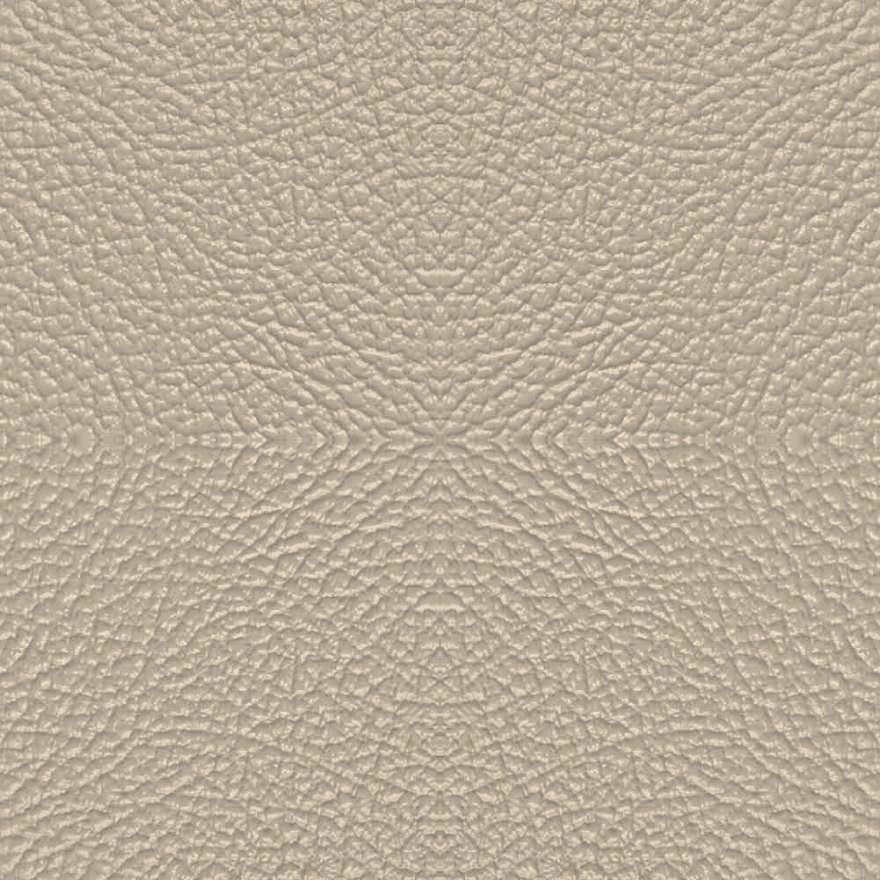
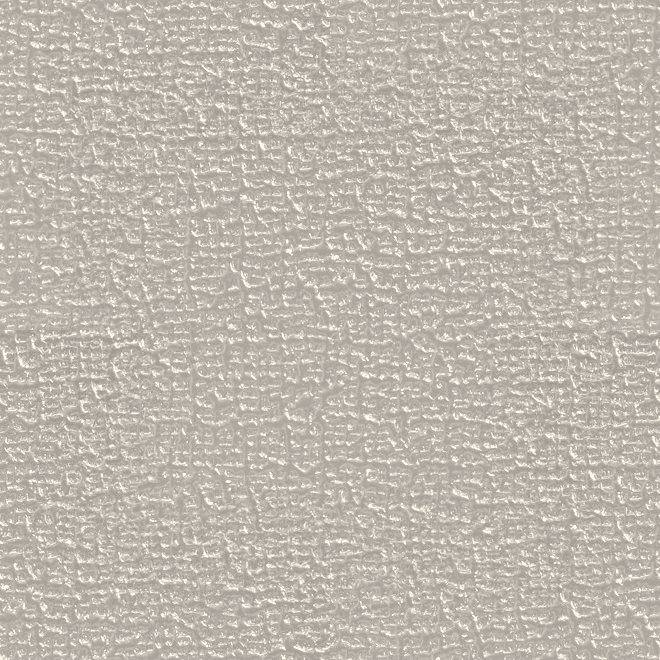
StreamDAW demo: seamless tolex, lighter meters

diff --git a/apps/streamdaw-demo.html b/apps/streamdaw-demo.html
@@ -35,8 +35,10 @@
   --meter: #16140f; --shadow: 0 1px 0 rgba(22,20,15,.08);
   --vu-hi: #fdfbf4; --vu-lo: #e8e1cf; --vu-ink: 22, 20, 15; --vu-edge: 255, 255, 255;   /* the meters: a light face */
   --vu-g: #1d9a4a; --vu-y: #d29a00; --vu-r: #e02f3a; --vu-off: .16; --vu-glow: 2;
-  --amp: #c7b9a6 url(demo/leather-light.jpg) center / 440px auto repeat;   /* the leather (Ori's tolex): the phone's play card */
-  --amp-wall: linear-gradient(rgba(239,233,218,.5), rgba(239,233,218,.5)), #cfc3b0 url(demo/leather-light.jpg) 0 0 / 440px auto repeat;  /* the app's middle */
+  /* The leather: Ori's amp tolex, one seamless tile (site/snowstar/demo/leather-make.py), with a
+     soft light from the top left. --amp: the phone's play card; --amp-wall: the app's middle. */
+  --amp: linear-gradient(155deg, rgba(255,255,255,.28) 0%, rgba(255,255,255,.06) 32%, rgba(0,0,0,0) 58%, rgba(0,0,0,.08) 100%), #bdb4ab url(demo/leather-light.jpg) 0 0 / 330px auto repeat;
+  --amp-wall: linear-gradient(rgba(239,233,218,.35), rgba(239,233,218,.35)), #c4bbb1 url(demo/leather-light.jpg) 0 0 / 330px auto repeat;
   --amp-ink: #16140f; --amp-sub: rgba(22,20,15,.7); --amp-edge: #6f6556; --amp-text: 0 1px 0 rgba(255,255,255,.45);
   --amp-glow: inset 0 1px 0 rgba(255,255,255,.35), inset 0 0 0 3px rgba(0,0,0,.08), 0 10px 24px -16px rgba(40,30,10,.55);
   --pop-shadow: 0 10px 30px -10px rgba(0,0,0,.35);
@@ -55,8 +57,8 @@ html[data-theme="dark"] {
   --meter: #f3eddc; --shadow: none;
   --vu-hi: #1d1c18; --vu-lo: #0c0b09; --vu-ink: 232, 226, 207; --vu-edge: 255, 255, 255;  /* the meters: dark hardware */
   --vu-g: #44d36e; --vu-y: #f4c430; --vu-r: #ff4b4b; --vu-off: .11; --vu-glow: 6;
-  --amp: #24221f url(demo/leather-dark.jpg) center / 300px auto repeat;
-  --amp-wall: linear-gradient(rgba(18,17,14,.42), rgba(18,17,14,.42)), #1c1b19 url(demo/leather-dark.jpg) 0 0 / 300px auto repeat;
+  --amp: linear-gradient(155deg, rgba(255,255,255,.10) 0%, rgba(255,255,255,.025) 30%, rgba(0,0,0,0) 55%, rgba(0,0,0,.22) 100%), #141312 url(demo/leather-dark.jpg) 0 0 / 330px auto repeat;
+  --amp-wall: linear-gradient(rgba(18,17,14,.32), rgba(18,17,14,.32)), #141312 url(demo/leather-dark.jpg) 0 0 / 330px auto repeat;
   --amp-ink: #f3eddc; --amp-sub: rgba(243,237,220,.7); --amp-edge: #000; --amp-text: 0 1px 2px rgba(0,0,0,.55);
   --amp-glow: inset 0 1px 0 rgba(255,255,255,.08), inset 0 0 0 3px rgba(0,0,0,.25), 0 10px 24px -14px rgba(0,0,0,.6);
   --pop-shadow: 0 10px 30px -10px rgba(0,0,0,.55);
@@ -72,8 +74,8 @@ html[data-theme="dark"] {
     --meter: #f3eddc; --shadow: none;
     --vu-hi: #1d1c18; --vu-lo: #0c0b09; --vu-ink: 232, 226, 207; --vu-edge: 255, 255, 255;  /* the meters: dark hardware */
     --vu-g: #44d36e; --vu-y: #f4c430; --vu-r: #ff4b4b; --vu-off: .11; --vu-glow: 6;
-    --amp: #24221f url(demo/leather-dark.jpg) center / 300px auto repeat;
-    --amp-wall: linear-gradient(rgba(18,17,14,.42), rgba(18,17,14,.42)), #1c1b19 url(demo/leather-dark.jpg) 0 0 / 300px auto repeat;
+    --amp: linear-gradient(155deg, rgba(255,255,255,.10) 0%, rgba(255,255,255,.025) 30%, rgba(0,0,0,0) 55%, rgba(0,0,0,.22) 100%), #141312 url(demo/leather-dark.jpg) 0 0 / 330px auto repeat;
+    --amp-wall: linear-gradient(rgba(18,17,14,.32), rgba(18,17,14,.32)), #141312 url(demo/leather-dark.jpg) 0 0 / 330px auto repeat;
     --amp-ink: #f3eddc; --amp-sub: rgba(243,237,220,.7); --amp-edge: #000; --amp-text: 0 1px 2px rgba(0,0,0,.55);
     --amp-glow: inset 0 1px 0 rgba(255,255,255,.08), inset 0 0 0 3px rgba(0,0,0,.25), 0 10px 24px -14px rgba(0,0,0,.6);
     --pop-shadow: 0 10px 30px -10px rgba(0,0,0,.55);
@@ -535,6 +537,159 @@ html[data-theme="dark"] .theme-btn::before { content: "\2600"; }  /* a sun: swit
       <a href="streamdaw.html" target="_top">StreamDAW</a> · free on your master bus.</p>
   </div>
 </div>
+<script>// Two analog VU meters on one canvas: the listener page, the control page, the site's demo.
+//
+// Backlit faces, a real VU scale (linear in voltage: -20 sits near the stop, 0 VU two thirds
+// across), needles on a damped spring that rise fast and fall slowly, and a peak lamp at
+// -1 dBFS. 0 VU = -4 dBFS of peak, so a mastered mix swings around the red.
+//
+// Light on the page (2026-10-08, after a dropout that came with a video starting): everything
+// that does not move (bezels, faces, scales, glass, lamps) is drawn once per size and theme
+// into layers; a frame is two images, two needles and two lamps, at most 30 a second, only
+// while a needle moves, and never while the page is hidden.
+//
+//   const m = SdawVU.create(canvas);  m.feed(peakL, peakR);  m.pose(l, r, peak);  m.redraw();
+(function () {
+  'use strict';
+  const REF = -4;
+  const toDb = (v) => (v > 0 ? 20 * Math.log10(v) : -120);
+  const needleAt = (db) => Math.min(1.06, Math.pow(10, (db - REF) / 20) / Math.pow(10, 3 / 20));   // 0..1 = rest..+3 VU
+  const isDark = () => {
+    const t = document.documentElement.getAttribute('data-theme');
+    return t ? t === 'dark' : !!(window.matchMedia && matchMedia('(prefers-color-scheme: dark)').matches);
+  };
+  const PAL = {
+    dark:  { f0: '#f7e2a6', f1: '#d9b866', glow: 'rgba(255,214,120,.55)', ink: '#2b2416', bez0: '#3a3833', bez1: '#0e0d0b' },
+    light: { f0: '#fbf5e4', f1: '#e7dcbd', glow: 'rgba(255,246,214,.6)', ink: '#2b2416', bez0: '#4a4741', bez1: '#15140f' },
+  };
+  const all = new Set();
+
+  // The geometry of one meter, shared by the layers and the needle.
+  function geo(x0, w, h) {
+    const fx = x0 + 6, fy = 7, fw = w - 12, fh = h - 16;
+    const cx = fx + fw / 2, cy = fy + fh * 1.45, R = Math.min(fh * 1.25, fw * 0.55), A = 42 * Math.PI / 180;
+    return { x0, w, h, fx, fy, fw, fh, cx, cy, R, A, ang: (p) => -A + 2 * A * Math.max(0, Math.min(1, p)) - Math.PI / 2 };
+  }
+  function rr(g, x, y, w, h, r) { g.beginPath(); g.moveTo(x + r, y); g.arcTo(x + w, y, x + w, y + h, r); g.arcTo(x + w, y + h, x, y + h, r); g.arcTo(x, y + h, x, y, r); g.arcTo(x, y, x + w, y, r); g.closePath(); }
+
+  function paintBack(g, m, side, pal) {
+    const { x0, w, h, fx, fy, fw, fh, cx, cy, R, ang } = m;
+    g.save(); g.shadowColor = 'rgba(0,0,0,.55)'; g.shadowBlur = 8; g.shadowOffsetY = 3;
+    const bz = g.createLinearGradient(0, 0, 0, h); bz.addColorStop(0, pal.bez0); bz.addColorStop(1, pal.bez1);
+    rr(g, x0, 1, w, h - 4, 9); g.fillStyle = bz; g.fill(); g.restore();
+    g.strokeStyle = 'rgba(255,255,255,.14)'; g.lineWidth = 1; rr(g, x0 + 0.5, 1.5, w - 1, h - 5, 8.5); g.stroke();
+    g.save(); rr(g, fx, fy, fw, fh, 5); g.clip();
+    const face = g.createLinearGradient(0, fy, 0, fy + fh); face.addColorStop(0, pal.f0); face.addColorStop(1, pal.f1);
+    g.fillStyle = face; g.fillRect(fx, fy, fw, fh);
+    const glow = g.createRadialGradient(fx + fw / 2, fy + fh * 0.9, 4, fx + fw / 2, fy + fh * 0.9, fw * 0.7); glow.addColorStop(0, pal.glow); glow.addColorStop(1, 'rgba(255,255,255,0)');
+    g.fillStyle = glow; g.fillRect(fx, fy, fw, fh);
+    const vig = g.createRadialGradient(fx + fw / 2, fy + fh / 2, fh * 0.2, fx + fw / 2, fy + fh / 2, fw * 0.75); vig.addColorStop(0, 'rgba(0,0,0,0)'); vig.addColorStop(1, 'rgba(60,40,10,.28)');
+    g.fillStyle = vig; g.fillRect(fx, fy, fw, fh);
+    const at = (vuDb) => needleAt(vuDb + REF);
+    g.lineWidth = 1.2; g.strokeStyle = pal.ink;
+    g.beginPath(); g.arc(cx, cy, R, ang(at(-20)), ang(at(0))); g.stroke();
+    g.strokeStyle = '#c4271f'; g.lineWidth = 3.2; g.beginPath(); g.arc(cx, cy, R + 1.5, ang(at(0)), ang(1)); g.stroke();
+    g.font = '600 ' + Math.max(7, Math.round(fh * 0.13)) + 'px ui-sans-serif, -apple-system, Helvetica, Arial'; g.textAlign = 'center'; g.textBaseline = 'middle';
+    for (const [d, lab] of [[-20, '20'], [-10, '10'], [-7, ''], [-5, '5'], [-3, '3'], [-2, ''], [-1, ''], [0, '0'], [1, ''], [2, ''], [3, '+3']]) {
+      const t = ang(at(d)), big = lab !== '', c = Math.cos(t), sn = Math.sin(t);
+      g.strokeStyle = d > 0 ? '#c4271f' : pal.ink; g.lineWidth = big ? 1.3 : 1;
+      g.beginPath(); g.moveTo(cx + c * R, cy + sn * R); g.lineTo(cx + c * (R + (big ? 6 : 4)), cy + sn * (R + (big ? 6 : 4))); g.stroke();
+      if (big && fw > 100) { g.fillStyle = d > 0 ? '#c4271f' : pal.ink; g.fillText(lab, cx + c * (R + 13), cy + sn * (R + 13)); }
+    }
+    g.fillStyle = pal.ink; g.font = 'italic 700 ' + Math.max(9, Math.round(fh * 0.2)) + 'px Georgia, "Times New Roman", serif';
+    g.fillText('VU', cx, fy + fh * 0.8);
+    g.font = '600 ' + Math.max(7, Math.round(fh * 0.12)) + 'px ui-sans-serif, -apple-system, Helvetica, Arial'; g.textAlign = 'left';
+    g.fillText(side, fx + 7, fy + 10);
+    g.restore();
+  }
+  function paintFront(g, m) {   // over the needle: the pivot's cover and the glass
+    const { fx, fy, fw, fh } = m;
+    g.save(); rr(g, fx, fy, fw, fh, 5); g.clip();
+    const cover = g.createLinearGradient(0, fy + fh - 12, 0, fy + fh); cover.addColorStop(0, 'rgba(20,18,14,0)'); cover.addColorStop(1, 'rgba(20,18,14,.35)');
+    g.fillStyle = cover; g.fillRect(fx, fy + fh - 12, fw, 12);
+    const gl = g.createLinearGradient(0, fy, 0, fy + fh * 0.55); gl.addColorStop(0, 'rgba(255,255,255,.42)'); gl.addColorStop(1, 'rgba(255,255,255,0)');
+    g.fillStyle = gl; g.beginPath(); g.moveTo(fx, fy); g.lineTo(fx + fw, fy); g.lineTo(fx + fw, fy + fh * 0.32); g.quadraticCurveTo(fx + fw / 2, fy + fh * 0.5, fx, fy + fh * 0.32); g.closePath(); g.fill();
+    g.restore();
+  }
+  function lamp(on, dpr) {
+    const c = document.createElement('canvas'), s = Math.ceil(18 * dpr); c.width = c.height = s;
+    const g = c.getContext('2d'); g.setTransform(dpr, 0, 0, dpr, 0, 0);
+    if (on) { const halo = g.createRadialGradient(9, 9, 1, 9, 9, 9); halo.addColorStop(0, 'rgba(255,59,47,.6)'); halo.addColorStop(1, 'rgba(255,59,47,0)'); g.fillStyle = halo; g.fillRect(0, 0, 18, 18); }
+    const l = g.createRadialGradient(8, 8, 0.5, 9, 9, 4); l.addColorStop(0, on ? '#ffd1c7' : '#7a2a24'); l.addColorStop(1, on ? '#ff3b2f' : '#2b0f0d');
+    g.fillStyle = l; g.beginPath(); g.arc(9, 9, 3.2, 0, 2 * Math.PI); g.fill();
+    return c;
+  }
+
+  function create(cv) {
+    const s = { tl: 0, tr: 0, xl: 0, xr: 0, vl: 0, vr: 0, pkl: -1e9, pkr: -1e9, at: 0, last: 0, drawn: 0, running: false, L: null, key: '' };
+    function layers() {
+      const dpr = Math.min(3, window.devicePixelRatio || 1), W = cv.clientWidth, H = cv.clientHeight;
+      if (!W || !H) return null;
+      const dark = isDark(), key = [W, H, dpr, dark].join();
+      if (s.L && s.key === key) return s.L;
+      if (cv.width !== Math.round(W * dpr) || cv.height !== Math.round(H * dpr)) { cv.width = Math.round(W * dpr); cv.height = Math.round(H * dpr); }
+      const pal = dark ? PAL.dark : PAL.light, gap = 10, mw = (W - gap) / 2;
+      const ms = [geo(0, mw, H), geo(mw + gap, mw, H)];
+      const mk = () => { const c = document.createElement('canvas'); c.width = cv.width; c.height = cv.height; const g = c.getContext('2d'); g.setTransform(dpr, 0, 0, dpr, 0, 0); return [c, g]; };
+      const [bg, gb] = mk(), [fg, gf] = mk();
+      paintBack(gb, ms[0], 'L', pal); paintBack(gb, ms[1], 'R', pal);
+      paintFront(gf, ms[0]); paintFront(gf, ms[1]);
+      s.L = { bg, fg, ms, dpr, W, H, on: lamp(true, dpr), off: lamp(false, dpr) }; s.key = key;
+      return s.L;
+    }
+    function draw() {
+      const L = layers(); if (!L) return;
+      const g = cv.getContext('2d'), now = performance.now();
+      g.setTransform(1, 0, 0, 1, 0, 0); g.clearRect(0, 0, cv.width, cv.height); g.drawImage(L.bg, 0, 0);
+      g.setTransform(L.dpr, 0, 0, L.dpr, 0, 0); g.lineCap = 'round';
+      [[L.ms[0], s.xl, now - s.pkl < 500], [L.ms[1], s.xr, now - s.pkr < 500]].forEach(([m, x, pk]) => {
+        const t = m.ang(x), c = Math.cos(t), sn = Math.sin(t), r0 = m.R * 0.42, r1 = m.R + 7;
+        g.save(); g.beginPath(); g.rect(m.fx, m.fy, m.fw, m.fh); g.clip();
+        g.strokeStyle = 'rgba(40,25,5,.25)'; g.lineWidth = 2; g.beginPath(); g.moveTo(m.cx + c * r0 + 2, m.cy + sn * r0 + 2); g.lineTo(m.cx + c * r1 + 2, m.cy + sn * r1 + 2); g.stroke();
+        g.strokeStyle = '#141210'; g.lineWidth = 1.4; g.beginPath(); g.moveTo(m.cx + c * r0, m.cy + sn * r0); g.lineTo(m.cx + c * r1, m.cy + sn * r1); g.stroke();
+        g.restore();
+        g.drawImage(pk ? L.on : L.off, m.fx + m.fw - 18, m.fy + 1, 18, 18);
+      });
+      g.setTransform(1, 0, 0, 1, 0, 0); g.drawImage(L.fg, 0, 0);
+    }
+    function step(now) {
+      if (document.hidden) { s.running = false; return; }
+      if (now - s.drawn < 32) { requestAnimationFrame(step); return; }   // at most 30 frames a second
+      const dt = Math.min(0.05, (now - (s.last || now)) / 1000); s.last = now; s.drawn = now;
+      const fresh = now - s.at < 400;
+      const tl = fresh ? needleAt(toDb(s.tl)) : 0, tr = fresh ? needleAt(toDb(s.tr)) : 0;
+      s.tl *= 0.6; s.tr *= 0.6;
+      for (const [t, x, v] of [[tl, 'xl', 'vl'], [tr, 'xr', 'vr']]) {
+        // a damped spring: quick up (about 5 Hz), slow down (about 1.6 Hz), as a VU's needle
+        const w = 2 * Math.PI * (t > s[x] ? 5 : 1.6), K = w * w, C = 1.8 * w;
+        for (let i = 0; i < 2; i++) { const hh = dt / 2; s[v] += (K * (t - s[x]) - C * s[v]) * hh; s[x] = Math.max(-0.02, Math.min(1.08, s[x] + s[v] * hh)); }
+      }
+      draw();
+      const moving = Math.abs(s.vl) + Math.abs(s.vr) > 0.002 || s.xl > 0.002 || s.xr > 0.002;
+      if (moving || fresh || now - Math.max(s.pkl, s.pkr) < 600) requestAnimationFrame(step);
+      else { s.running = false; s.xl = s.xr = s.vl = s.vr = 0; draw(); }
+    }
+    const api = {
+      feed(l, r) {
+        l = +l || 0; r = +r || 0;
+        s.tl = Math.max(s.tl, l); s.tr = Math.max(s.tr, r); s.at = performance.now();
+        if (l > 0.89) s.pkl = s.at; if (r > 0.89) s.pkr = s.at;
+        if (!s.running && !document.hidden) { s.running = true; s.last = performance.now(); requestAnimationFrame(step); }
+      },
+      pose(l, r, peak) { s.xl = +l || 0; s.xr = +r || 0; s.vl = s.vr = 0; if (peak) s.pkl = s.pkr = performance.now(); draw(); },
+      redraw() { s.key = ''; draw(); },
+    };
+    all.add(api);
+    requestAnimationFrame(() => draw());
+    return api;
+  }
+  const again = () => { for (const m of all) m.redraw(); };
+  window.addEventListener('sdawtheme', again);
+  window.addEventListener('resize', again);
+  if (window.matchMedia) { const mq = matchMedia('(prefers-color-scheme: dark)'); if (mq.addEventListener) mq.addEventListener('change', again); }
+  window.SdawVU = { create, toDb, needleAt };
+})();
+</script>
 <script>
 (function () {
   'use strict';
@@ -828,118 +983,23 @@ html[data-theme="dark"] .theme-btn::before { content: "\2600"; }  /* a sun: swit
     requestAnimationFrame(vuLoop);
   }
   // ---------- the meter band ----------
-  // Two analog VU meters (2026-10-08, Ori: "depth and realism, as if it is an analog
-  // machine"): backlit faces, a real VU scale (linear in voltage, so -20 sits near the stop and
-  // 0 VU two thirds across), needles with VU ballistics (a damped spring: about 300 ms to the
-  // mark, a hair of overshoot) and a peak light. Fed with the peaks of what this page plays
-  // (vuFeed); drawn only while a needle moves (landmine 22: the page must stay light).
-  const vu = { tl: 0, tr: 0, xl: 0, xr: 0, vl: 0, vr: 0, pkl: -1e9, pkr: -1e9, last: 0, at: 0, running: false, key: '' };
-  let listenSince = 0;
+  // Two analog VU meters (vu-analog.js: shared with the control page and the site's demo),
+  // fed with the level of what this page is PLAYING: the audio engine reports it with its
+  // stats, about nine times a second. The level of what ARRIVES ran half a second early in
+  // sync mode (2026-10-08: "the meters are not in time with what is playing").
+  const meterVU = window.SdawVU && $('vuCanvas') ? SdawVU.create($('vuCanvas')) : null;
+  let listenSince = 0, vuFromEngine = 0;
   const VU_MIN = -42, toDb = (v) => (v > 0 ? 20 * Math.log10(v) : -120);
-  function dbPos(db) {           // the old segment scale: still what the track meters use
+  function dbPos(db) {           // the track meters' scale
     if (db <= VU_MIN) return 0; if (db >= 0) return 1;
     if (db < -20) return (db - VU_MIN) / (-20 - VU_MIN) * 0.30;
     if (db < -10) return 0.30 + (db + 20) / 10 * 0.25;
     return 0.55 + (db + 10) / 10 * 0.45;
   }
-  const VU_REF = -4;             // 0 VU = -4 dBFS of peak: a mastered mix swings around the red
-  const vuNeedle = (db) => Math.min(1.06, Math.pow(10, (db - VU_REF) / 20) / Math.pow(10, 3 / 20));   // 0..1 = rest..+3 VU
-  function vuFeed(l, r) {
-    vu.tl = Math.max(vu.tl, +l || 0); vu.tr = Math.max(vu.tr, +r || 0); vu.at = performance.now();
-    if ((+l || 0) > 0.89) vu.pkl = vu.at; if ((+r || 0) > 0.89) vu.pkr = vu.at;     // -1 dBFS lights the peak lamp
-    if (!vu.running && !document.hidden) { vu.running = true; vu.last = performance.now(); requestAnimationFrame(vuStep); }
-    if (wantPlay && !listenSince) listenSince = Date.now(); else if (!wantPlay) listenSince = 0;
-  }
-  function vuStep(now) {
-    const dt = Math.min(0.05, (now - vu.last) / 1000); vu.last = now;
-    const fresh = now - vu.at < 400;
-    const tl = fresh ? vuNeedle(toDb(vu.tl)) : 0, tr = fresh ? vuNeedle(toDb(vu.tr)) : 0;
-    vu.tl *= 0.6; vu.tr *= 0.6;
-    // the needle: x'' = k(target - x) - c x'  (about 2 Hz, damped a little under critical)
-    const K = 175, C = 21;
-    for (const [t, x, v] of [[tl, 'xl', 'vl'], [tr, 'xr', 'vr']]) {
-      for (let i = 0; i < 2; i++) { const h = dt / 2; vu[v] += (K * (t - vu[x]) - C * vu[v]) * h; vu[x] = Math.max(-0.02, Math.min(1.08, vu[x] + vu[v] * h)); }
-    }
-    drawVu();
-    const moving = Math.abs(vu.vl) + Math.abs(vu.vr) > 0.002 || vu.xl > 0.002 || vu.xr > 0.002;
-    if (!document.hidden && (moving || fresh || now - Math.max(vu.pkl, vu.pkr) < 600)) requestAnimationFrame(vuStep);
-    else { vu.running = false; vu.xl = vu.xr = vu.vl = vu.vr = 0; drawVu(); }
-  }
-  function drawVu() {
-    const cv = $('vuCanvas'); if (!cv) return;
-    const dpr = Math.min(3, window.devicePixelRatio || 1), W = cv.clientWidth, H = cv.clientHeight; if (!W || !H) return;
-    if (cv.width !== Math.round(W * dpr) || cv.height !== Math.round(H * dpr)) { cv.width = Math.round(W * dpr); cv.height = Math.round(H * dpr); vu.key = ''; }
-    const now = performance.now(), pal = vuPalette();
-    const key = [W, H, vu.xl.toFixed(3), vu.xr.toFixed(3), now - vu.pkl < 500, now - vu.pkr < 500, pal.k].join();
-    if (key === vu.key) return; vu.key = key;
-    const g = cv.getContext('2d'); g.setTransform(dpr, 0, 0, dpr, 0, 0); g.clearRect(0, 0, W, H);
-    const gap = 10, mw = (W - gap) / 2;
-    vuMeter(g, 0, mw, H, vu.xl, now - vu.pkl < 500, 'L', pal);
-    vuMeter(g, mw + gap, mw, H, vu.xr, now - vu.pkr < 500, 'R', pal);
-  }
-  // The meters' face and bezel follow the theme a little (an ivory face in the bright theme, a
-  // warm backlit one in the dark); the needle, the scale and the red are the same in both.
-  function vuPalette() {
-    const dark = (document.documentElement.getAttribute('data-theme') || (matchMedia && matchMedia('(prefers-color-scheme: dark)').matches ? 'dark' : 'light')) === 'dark';
-    return dark ? { k: 'd', f0: '#f7e2a6', f1: '#d9b866', glow: 'rgba(255,214,120,.55)', ink: '#2b2416', bez0: '#3a3833', bez1: '#0e0d0b' }
-                : { k: 'l', f0: '#fbf5e4', f1: '#e7dcbd', glow: 'rgba(255,246,214,.6)', ink: '#2b2416', bez0: '#4a4741', bez1: '#15140f' };
-  }
-  window.addEventListener('sdawtheme', () => { vu.key = ''; drawVu(); });
-  if (window.matchMedia) { const mq = matchMedia('(prefers-color-scheme: dark)'); const re = () => { vu.key = ''; drawVu(); }; if (mq.addEventListener) mq.addEventListener('change', re); }
-  function vuMeter(g, x0, w, h, pos, peak, side, pal) {
-    const rr = (x, y, ww, hh, r) => { g.beginPath(); g.moveTo(x + r, y); g.arcTo(x + ww, y, x + ww, y + hh, r); g.arcTo(x + ww, y + hh, x, y + hh, r); g.arcTo(x, y + hh, x, y, r); g.arcTo(x, y, x + ww, y, r); g.closePath(); };
-    // bezel: dark metal with a lit top edge, and a shadow it casts on the leather
-    g.save(); g.shadowColor = 'rgba(0,0,0,.55)'; g.shadowBlur = 8; g.shadowOffsetY = 3;
-    const bz = g.createLinearGradient(0, 0, 0, h); bz.addColorStop(0, pal.bez0); bz.addColorStop(1, pal.bez1);
-    rr(x0, 1, w, h - 4, 9); g.fillStyle = bz; g.fill(); g.restore();
-    g.strokeStyle = 'rgba(255,255,255,.14)'; g.lineWidth = 1; rr(x0 + .5, 1.5, w - 1, h - 5, 8.5); g.stroke();
-    // face: backlit from below the scale, darker at the corners
-    const fx = x0 + 6, fy = 7, fw = w - 12, fh = h - 16;
-    g.save(); rr(fx, fy, fw, fh, 5); g.clip();
-    const face = g.createLinearGradient(0, fy, 0, fy + fh); face.addColorStop(0, pal.f0); face.addColorStop(1, pal.f1);
-    g.fillStyle = face; g.fillRect(fx, fy, fw, fh);
-    const glow = g.createRadialGradient(fx + fw / 2, fy + fh * 0.9, 4, fx + fw / 2, fy + fh * 0.9, fw * 0.7); glow.addColorStop(0, pal.glow); glow.addColorStop(1, 'rgba(255,255,255,0)');
-    g.fillStyle = glow; g.fillRect(fx, fy, fw, fh);
-    const vig = g.createRadialGradient(fx + fw / 2, fy + fh / 2, fh * 0.2, fx + fw / 2, fy + fh / 2, fw * 0.75); vig.addColorStop(0, 'rgba(0,0,0,0)'); vig.addColorStop(1, 'rgba(60,40,10,.28)');
-    g.fillStyle = vig; g.fillRect(fx, fy, fw, fh);
-    // the scale: an arc around a pivot below the face
-    const cx = fx + fw / 2, cy = fy + fh * 1.45, R = Math.min(fh * 1.25, fw * 0.55), A = 42 * Math.PI / 180;
-    const ang = (p) => -A + 2 * A * Math.max(0, Math.min(1, p)) - Math.PI / 2;
-    const at = (vuDb) => vuNeedle(vuDb + VU_REF);
-    g.lineWidth = 1.2; g.strokeStyle = pal.ink;
-    g.beginPath(); g.arc(cx, cy, R, ang(at(-20)), ang(at(0))); g.stroke();
-    g.strokeStyle = '#c4271f'; g.lineWidth = 3.2; g.beginPath(); g.arc(cx, cy, R + 1.5, ang(at(0)), ang(1)); g.stroke();
-    g.font = '600 ' + Math.max(7, Math.round(fh * 0.13)) + 'px ui-sans-serif, -apple-system, Helvetica, Arial'; g.textAlign = 'center'; g.textBaseline = 'middle';
-    for (const [d, lab] of [[-20, '20'], [-10, '10'], [-7, ''], [-5, '5'], [-3, '3'], [-2, ''], [-1, ''], [0, '0'], [1, ''], [2, ''], [3, '+3']]) {
-      const t = ang(at(d)), big = lab !== '', c = Math.cos(t), sn = Math.sin(t);
-      g.strokeStyle = d > 0 ? '#c4271f' : pal.ink; g.lineWidth = big ? 1.3 : 1;
-      g.beginPath(); g.moveTo(cx + c * R, cy + sn * R); g.lineTo(cx + c * (R + (big ? 6 : 4)), cy + sn * (R + (big ? 6 : 4))); g.stroke();
-      if (big && fw > 100) { g.fillStyle = d > 0 ? '#c4271f' : pal.ink; g.fillText(lab, cx + c * (R + 13), cy + sn * (R + 13)); }
-    }
-    g.fillStyle = pal.ink; g.font = 'italic 700 ' + Math.max(9, Math.round(fh * 0.2)) + 'px Georgia, "Times New Roman", serif';
-    g.fillText('VU', cx, fy + fh * 0.8);
-    g.font = '600 ' + Math.max(7, Math.round(fh * 0.12)) + 'px ui-sans-serif, -apple-system, Helvetica, Arial'; g.textAlign = 'left';
-    g.fillText(side, fx + 7, fy + 10);
-    // the needle, with its shadow on the face
-    const t = ang(pos), c = Math.cos(t), sn = Math.sin(t), r0 = R * 0.42, r1 = R + 7;
-    g.lineCap = 'round';
-    g.strokeStyle = 'rgba(40,25,5,.25)'; g.lineWidth = 2; g.beginPath(); g.moveTo(cx + c * r0 + 2, cy + sn * r0 + 2); g.lineTo(cx + c * r1 + 2, cy + sn * r1 + 2); g.stroke();
-    g.strokeStyle = '#141210'; g.lineWidth = 1.4; g.beginPath(); g.moveTo(cx + c * r0, cy + sn * r0); g.lineTo(cx + c * r1, cy + sn * r1); g.stroke();
-    // the pivot's cover: a dark band along the bottom
-    const cover = g.createLinearGradient(0, fy + fh - 12, 0, fy + fh); cover.addColorStop(0, 'rgba(20,18,14,0)'); cover.addColorStop(1, 'rgba(20,18,14,.35)');
-    g.fillStyle = cover; g.fillRect(fx, fy + fh - 12, fw, 12);
-    // glass: a soft reflection across the top
-    const gl = g.createLinearGradient(0, fy, 0, fy + fh * 0.55); gl.addColorStop(0, 'rgba(255,255,255,.42)'); gl.addColorStop(1, 'rgba(255,255,255,0)');
-    g.fillStyle = gl; g.beginPath(); g.moveTo(fx, fy); g.lineTo(fx + fw, fy); g.lineTo(fx + fw, fy + fh * 0.32); g.quadraticCurveTo(fx + fw / 2, fy + fh * 0.5, fx, fy + fh * 0.32); g.closePath(); g.fill();
-    g.restore();
-    // the peak lamp, on the bezel
-    const lx = fx + fw - 9, ly = fy + 10;
-    const lamp = g.createRadialGradient(lx - 1, ly - 1, 0.5, lx, ly, 4);
-    lamp.addColorStop(0, peak ? '#ffd1c7' : '#7a2a24'); lamp.addColorStop(1, peak ? '#ff3b2f' : '#2b0f0d');
-    g.fillStyle = lamp; g.beginPath(); g.arc(lx, ly, 3.2, 0, 2 * Math.PI); g.fill();
-    if (peak) { g.save(); g.shadowColor = '#ff3b2f'; g.shadowBlur = 8; g.fill(); g.restore(); }
-  }
-  window.addEventListener('resize', () => { vu.key = ''; drawVu(); });
+  function vuFeed(l, r) { if (meterVU) meterVU.feed(l, r); listenTick(); }
+  function listenTick() { if (wantPlay && !listenSince) listenSince = Date.now(); else if (!wantPlay) listenSince = 0; }
+  function drawVu() { if (meterVU) meterVU.redraw(); }
+  // ---------- the meter band: end ----------
   drawVu();
   // For the demo's own test (site/snowstar/demo/demo.test.mjs) and for a curious console.
   window.__demo = { get ctx() { return ctx; }, tracks: TRACKS, get scheduled() { return [...scheduled.keys()]; },
